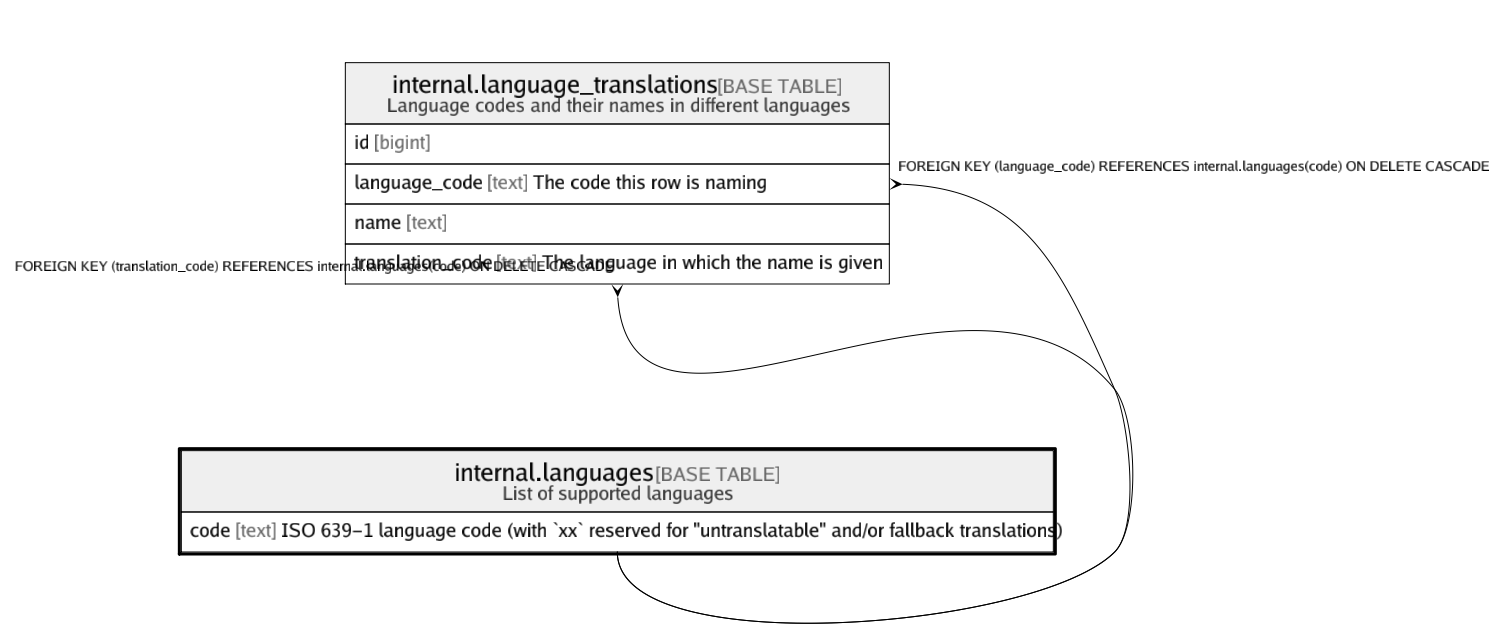
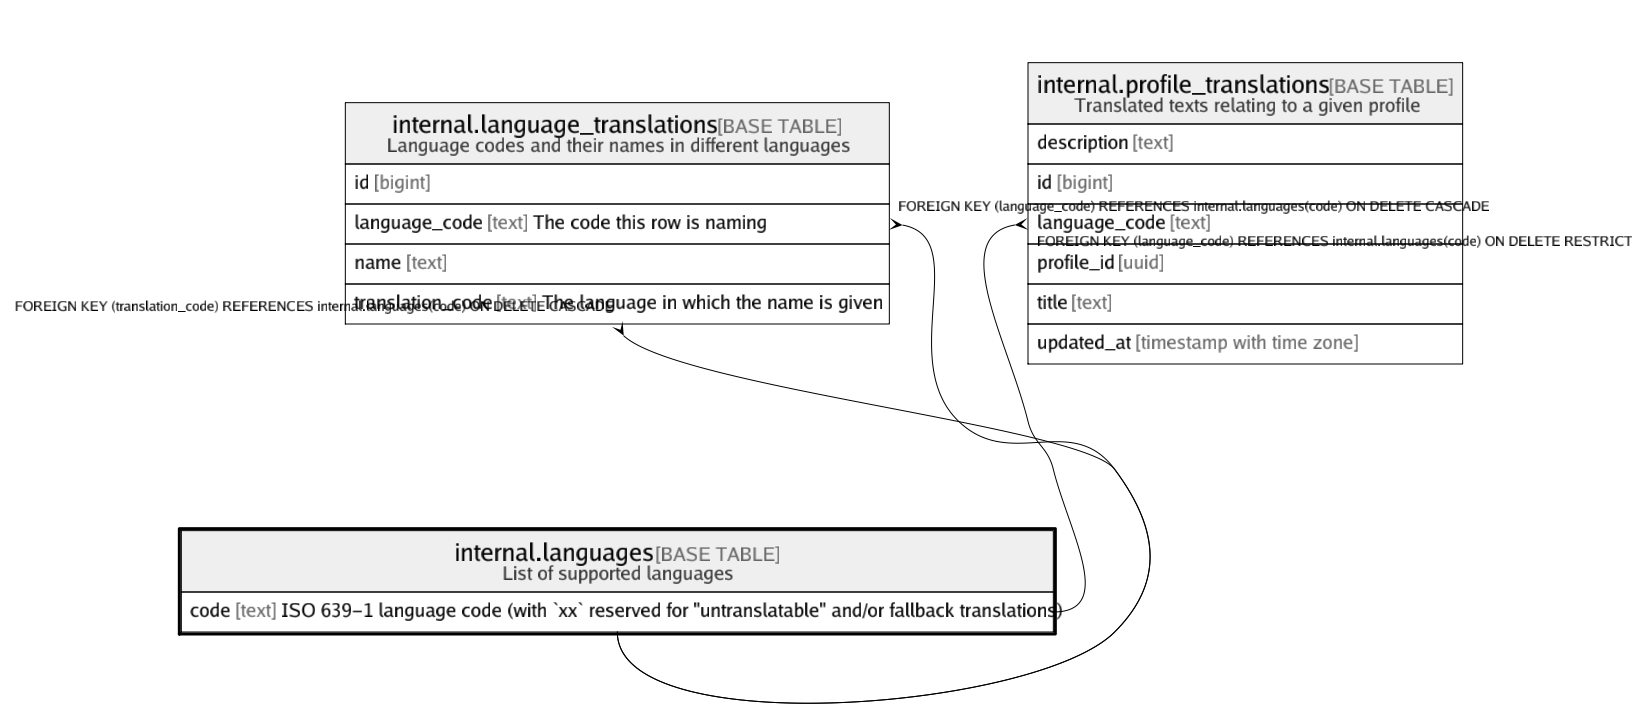
Add basic profiles table
A profile is the "base type" for all persons, organizations, venues,
dance schools, bands, etc. that may be associated with an event.

diff --git a/docs/database/internal.profile_translations.md b/docs/database/internal.profile_translations.md
@@ -1,0 +1,47 @@
+# internal.profile_translations
+
+## Description
+
+Translated texts relating to a given profile
+
+## Columns
+
+| Name | Type | Default | Nullable | Children | Parents | Comment |
+| ---- | ---- | ------- | -------- | -------- | ------- | ------- |
+| description | text | ''::text | false |  |  |  |
+| id | bigint | nextval('internal.profile_translations_id_seq'::regclass) | false |  |  |  |
+| language_code | text |  | false |  | [internal.languages](internal.languages.md) |  |
+| profile_id | uuid |  | false |  | [internal.profiles](internal.profiles.md) |  |
+| title | text |  | false |  |  |  |
+| updated_at | timestamp with time zone | (now() AT TIME ZONE 'utc'::text) | false |  |  |  |
+
+## Constraints
+
+| Name | Type | Definition |
+| ---- | ---- | ---------- |
+| profile_translations_language_code_fkey | FOREIGN KEY | FOREIGN KEY (language_code) REFERENCES internal.languages(code) ON DELETE RESTRICT |
+| profile_translations_pkey | PRIMARY KEY | PRIMARY KEY (id) |
+| profile_translations_profile_id_fkey | FOREIGN KEY | FOREIGN KEY (profile_id) REFERENCES internal.profiles(id) ON DELETE CASCADE |
+| profile_translations_profile_id_language_code_key | UNIQUE | UNIQUE (profile_id, language_code) |
+
+## Indexes
+
+| Name | Definition |
+| ---- | ---------- |
+| profile_translations_pkey | CREATE UNIQUE INDEX profile_translations_pkey ON internal.profile_translations USING btree (id) |
+| profile_translations_profile_id_language_code_key | CREATE UNIQUE INDEX profile_translations_profile_id_language_code_key ON internal.profile_translations USING btree (profile_id, language_code) |
+| profile_translations_title_gin_idx | CREATE INDEX profile_translations_title_gin_idx ON internal.profile_translations USING gin (title gin_trgm_ops) |
+
+## Triggers
+
+| Name | Definition |
+| ---- | ---------- |
+| internal_profile_translations_moddatetime | CREATE TRIGGER internal_profile_translations_moddatetime BEFORE UPDATE ON internal.profile_translations FOR EACH ROW EXECUTE FUNCTION moddatetime('updated_at') |
+
+## Relations
+
+![er](internal.profile_translations.png)
+
+---
+
+> Generated by [tbls](https://github.com/k1LoW/tbls)

diff --git a/docs/database/internal.profile_owners.md b/docs/database/internal.profile_owners.md
@@ -1,0 +1,41 @@
+# internal.profile_owners
+
+## Description
+
+Determines which users may edit and control what profiles
+
+## Columns
+
+| Name | Type | Default | Nullable | Children | Parents | Comment |
+| ---- | ---- | ------- | -------- | -------- | ------- | ------- |
+| created_at | timestamp with time zone | (now() AT TIME ZONE 'utc'::text) | false |  |  |  |
+| created_by | uuid | auth.uid() | true |  | [auth.users](auth.users.md) | Id of the user who added `user_id` to the given profile. Mainly intended for diagnostic purposes |
+| id | bigint | nextval('internal.profile_owners_id_seq'::regclass) | false |  |  |  |
+| profile_id | uuid |  | false |  | [internal.profiles](internal.profiles.md) |  |
+| user_id | uuid |  | false |  | [auth.users](auth.users.md) |  |
+
+## Constraints
+
+| Name | Type | Definition |
+| ---- | ---- | ---------- |
+| profile_owners_check | CHECK | CHECK ((user_id <> created_by)) |
+| profile_owners_created_by_fkey | FOREIGN KEY | FOREIGN KEY (created_by) REFERENCES auth.users(id) ON DELETE SET NULL |
+| profile_owners_pkey | PRIMARY KEY | PRIMARY KEY (id) |
+| profile_owners_profile_id_fkey | FOREIGN KEY | FOREIGN KEY (profile_id) REFERENCES internal.profiles(id) ON DELETE CASCADE |
+| profile_owners_user_id_fkey | FOREIGN KEY | FOREIGN KEY (user_id) REFERENCES auth.users(id) ON DELETE CASCADE |
+| profile_owners_user_id_profile_id_key | UNIQUE | UNIQUE (user_id, profile_id) |
+
+## Indexes
+
+| Name | Definition |
+| ---- | ---------- |
+| profile_owners_pkey | CREATE UNIQUE INDEX profile_owners_pkey ON internal.profile_owners USING btree (id) |
+| profile_owners_user_id_profile_id_key | CREATE UNIQUE INDEX profile_owners_user_id_profile_id_key ON internal.profile_owners USING btree (user_id, profile_id) |
+
+## Relations
+
+![er](internal.profile_owners.png)
+
+---
+
+> Generated by [tbls](https://github.com/k1LoW/tbls)

diff --git a/docs/database/internal.profiles.md b/docs/database/internal.profiles.md
@@ -1,0 +1,43 @@
+# internal.profiles
+
+## Description
+
+The basic unit of "person, organization, or object" data.  
+  
+Profiles are related to events, e.g. as organizers, venues, performers, etc. but are not events themselves.  
+  
+A profile may be owned by multiple users but does not directly represent individual users.
+
+## Columns
+
+| Name | Type | Default | Nullable | Children | Parents | Comment |
+| ---- | ---- | ------- | -------- | -------- | ------- | ------- |
+| created_at | timestamp with time zone | (now() AT TIME ZONE 'utc'::text) | false |  |  |  |
+| id | uuid | gen_random_uuid() | false | [internal.profile_owners](internal.profile_owners.md) [internal.profile_translations](internal.profile_translations.md) |  |  |
+| updated_at | timestamp with time zone | (now() AT TIME ZONE 'utc'::text) | false |  |  |  |
+
+## Constraints
+
+| Name | Type | Definition |
+| ---- | ---- | ---------- |
+| profiles_pkey | PRIMARY KEY | PRIMARY KEY (id) |
+
+## Indexes
+
+| Name | Definition |
+| ---- | ---------- |
+| profiles_pkey | CREATE UNIQUE INDEX profiles_pkey ON internal.profiles USING btree (id) |
+
+## Triggers
+
+| Name | Definition |
+| ---- | ---------- |
+| internal_profiles_moddatetime | CREATE TRIGGER internal_profiles_moddatetime BEFORE UPDATE ON internal.profiles FOR EACH ROW EXECUTE FUNCTION moddatetime('updated_at') |
+
+## Relations
+
+![er](internal.profiles.png)
+
+---
+
+> Generated by [tbls](https://github.com/k1LoW/tbls)

diff --git a/docs/database/README.md b/docs/database/README.md
@@ -13,6 +13,9 @@
 | [auth.users](auth.users.md) | 32 | Auth: Stores user login data within a secure schema. | BASE TABLE |
 | [internal.language_translations](internal.language_translations.md) | 4 | Language codes and their names in different languages | BASE TABLE |
 | [internal.languages](internal.languages.md) | 1 | List of supported languages | BASE TABLE |
+| [internal.profile_owners](internal.profile_owners.md) | 5 | Determines which users may edit and control what profiles | BASE TABLE |
+| [internal.profile_translations](internal.profile_translations.md) | 6 | Translated texts relating to a given profile | BASE TABLE |
+| [internal.profiles](internal.profiles.md) | 3 | The basic unit of "person, organization, or object" data.<br><br>Profiles are related to events, e.g. as organizers, venues, performers, etc. but are not events themselves.<br><br>A profile may be owned by multiple users but does not directly represent individual users. | BASE TABLE |
 
 ## Stored procedures and functions
 

diff --git a/docs/database/internal.languages.md b/docs/database/internal.languages.md
@@ -8,7 +8,7 @@ List of supported languages
 
 | Name | Type | Default | Nullable | Children | Parents | Comment |
 | ---- | ---- | ------- | -------- | -------- | ------- | ------- |
-| code | text |  | false | [internal.language_translations](internal.language_translations.md) |  | ISO 639-1 language code (with `xx` reserved for "untranslatable" and/or fallback translations) |
+| code | text |  | false | [internal.language_translations](internal.language_translations.md) [internal.profile_translations](internal.profile_translations.md) |  | ISO 639-1 language code (with `xx` reserved for "untranslatable" and/or fallback translations) |
 
 ## Constraints
 

diff --git a/docs/database/auth.users.md b/docs/database/auth.users.md
@@ -22,7 +22,7 @@ Auth: Stores user login data within a secure schema.
 | email_change_token_new | varchar(255) |  | true |  |  |  |  |
 | email_confirmed_at | timestamp with time zone |  | true |  |  |  |  |
 | encrypted_password | varchar(255) |  | true |  |  |  |  |
-| id | uuid |  | false |  | [api_auth.user_config](api_auth.user_config.md) |  |  |
+| id | uuid |  | false |  | [api_auth.user_config](api_auth.user_config.md) [internal.profile_owners](internal.profile_owners.md) |  |  |
 | instance_id | uuid |  | true |  |  |  |  |
 | invited_at | timestamp with time zone |  | true |  |  |  |  |
 | is_super_admin | boolean |  | true |  |  |  |  |
